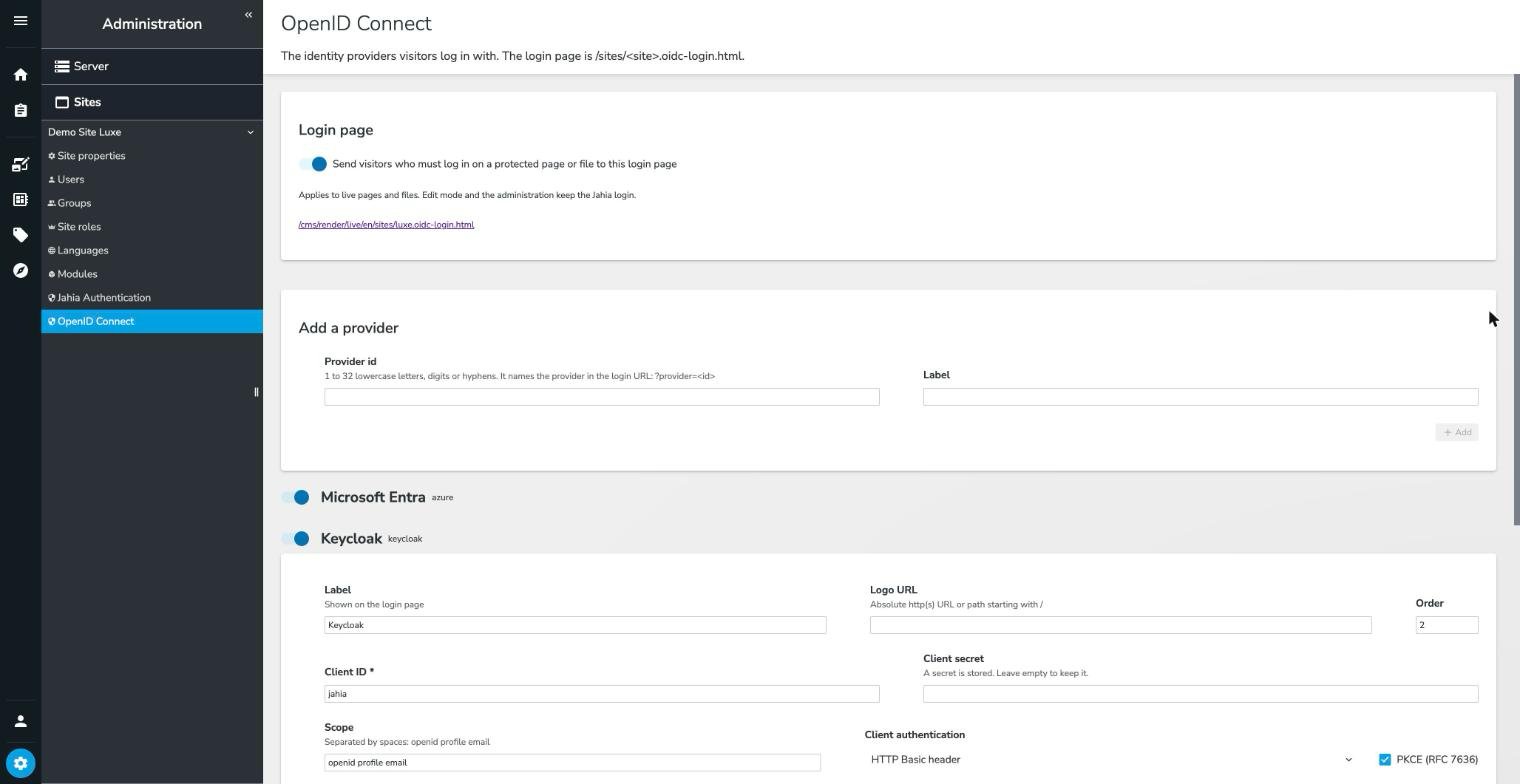
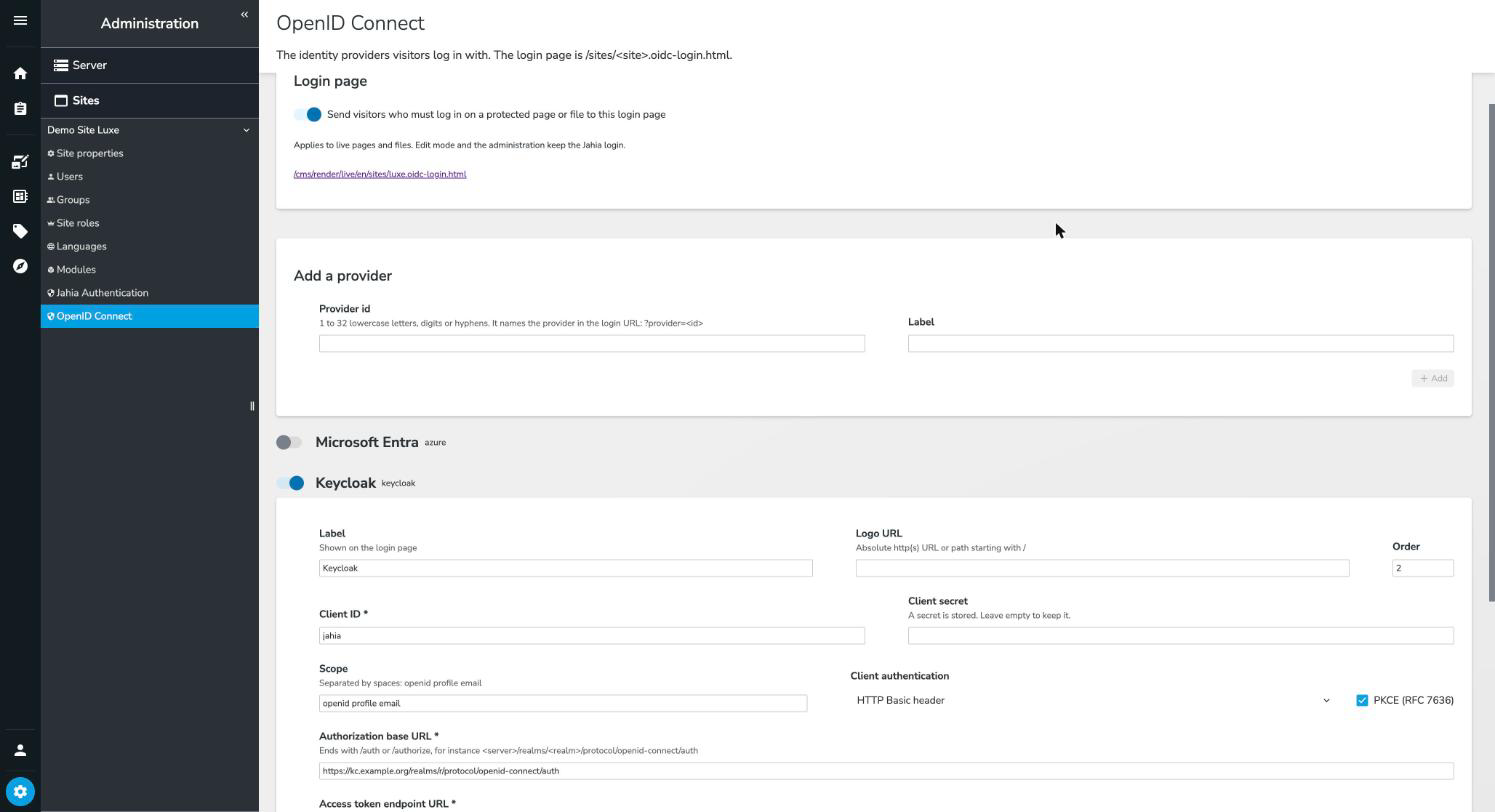
feat(admin): show the settings of a provider while it is on or incomplete

diff --git a/src/javascript/OidcProviders/OidcProvidersAdmin.jsx b/src/javascript/OidcProviders/OidcProvidersAdmin.jsx
@@ -1,4 +1,4 @@
-import React, {useState} from 'react';
+import React from 'react';
 import {useQuery} from '@apollo/client';
 import {useSelector} from 'react-redux';
 import {useTranslation} from 'react-i18next';
@@ -10,19 +10,23 @@ import {ProviderEnabledSwitch} from './ProviderEnabledSwitch';
 import {ProviderForm} from './ProviderForm';
 import styles from './OidcProviders.css';
 
+// The settings that turning a provider on requires, as the server checks them
+const isComplete = provider => [provider.clientId, provider.accessTokenEndpoint, provider.authorizationBaseUrl, provider.callbackUrl]
+    .every(value => Boolean(value?.trim()));
+
 /**
- * Site settings > OpenID Connect: add the providers of the site, configure each one, and delete them.
+ * Site settings > OpenID Connect: add the providers of the site, configure each one, and delete them. The settings
+ * of a provider show while it is on, and while it still lacks what turning it on requires.
  */
 export const OidcProvidersAdmin = () => {
     const {t} = useTranslation('jahia-oauth-oidc');
     const siteKey = useSelector(state => state.site);
     const language = useSelector(state => state.language);
     const {data, loading, error, refetch} = useQuery(GET_PROVIDERS, {variables: {siteKey}, fetchPolicy: 'network-only'});
-    const [expandedId, setExpandedId] = useState(null);
     const providers = data?.oidcProviders || [];
 
-    const onCreated = providerId => refetch().then(() => setExpandedId(providerId));
-    const onDeleted = () => refetch().then(() => setExpandedId(null));
+    const onCreated = () => refetch();
+    const onDeleted = () => refetch();
 
     return (
         <LayoutContent
@@ -44,24 +48,18 @@ export const OidcProvidersAdmin = () => {
                     {error && <Typography className={styles.error}>{error.message}</Typography>}
                     {data && providers.length === 0 && <Typography>{t('label.none')}</Typography>}
                     {providers.map(provider => {
-                        const isExpanded = expandedId === provider.id;
+                        const isShown = provider.enabled || !isComplete(provider);
                         return (
                             <div key={provider.id} data-test="oidc-provider-card" data-provider={provider.id}>
-                                {/* Moonstone's Collapsible takes a text label only: the header holds the switch too */}
                                 <div className={styles.providerHeaderRow}>
                                     <ProviderEnabledSwitch siteKey={siteKey} provider={provider} onChanged={refetch}/>
-                                    <button type="button"
-                                            className={styles.providerHeader}
-                                            aria-expanded={isExpanded}
-                                            aria-controls={`oidc-provider-${provider.id}`}
-                                            onClick={() => setExpandedId(isExpanded ? null : provider.id)}
-                                    >
+                                    <div className={styles.providerHeader}>
                                         <Typography variant="heading" weight="bold">{provider.label}</Typography>
                                         <Typography variant="caption">{provider.id}</Typography>
-                                    </button>
+                                    </div>
                                 </div>
-                                {/* Kept mounted while collapsed, so that unsaved changes survive */}
-                                <div id={`oidc-provider-${provider.id}`} hidden={!isExpanded}>
+                                {/* Kept mounted while hidden, so that unsaved changes survive */}
+                                <div id={`oidc-provider-${provider.id}`} hidden={!isShown}>
                                     <ProviderForm siteKey={siteKey}
                                                   language={language}
                                                   provider={provider}

diff --git a/tests/cypress/e2e/oidc-provider-administration.cy.ts b/tests/cypress/e2e/oidc-provider-administration.cy.ts
@@ -47,8 +47,8 @@ describe('OIDC provider administration', () => {
         cy.get('[data-test="oidc-add-provider"]').should('be.disabled');
         cy.get('#oidc-new-provider-id').clear();
 
-        // Open the first provider. The server refuses an invalid callback URL.
-        cy.get(card('first')).find('button').first().click();
+        // A provider that is off shows its settings until they are complete. The server refuses an invalid callback URL.
+        cy.get(card('first')).find('[data-test="oidc-provider-form"]').should('be.visible');
         cy.get(card('first')).within(() => {
             cy.get(field('first', 'clientId')).type('client');
             cy.get(field('first', 'clientSecret')).type('secret');
@@ -61,12 +61,14 @@ describe('OIDC provider administration', () => {
             cy.get(field('first', 'callbackUrl')).clear();
             cy.get(field('first', 'callbackUrl')).type(`${Cypress.config('baseUrl')}${sitePath(siteKey)}.oidc-callback.do`);
             cy.get('[data-test="oidc-save-provider"]').click();
-            cy.get('[data-test="oidc-provider-saved"]').should('be.visible');
         });
+        // Complete and off, the provider hides its settings; turned on, it shows them again.
+        cy.get(card('first')).find('[data-test="oidc-provider-form"]').should('not.be.visible');
 
         // A configured provider is turned on from its header; an incomplete one cannot be.
         cy.get(card('first')).find('[data-test="oidc-provider-enabled"]').click();
         cy.get(card('first')).find('[data-test="oidc-provider-enabled"] input').should('be.checked');
+        cy.get(card('first')).find('[data-test="oidc-provider-form"]').should('be.visible');
         cy.get(card('second')).find('[data-test="oidc-provider-enabled"]').click();
         cy.get(card('second')).find('[data-test="oidc-provider-enabled-error"]').should('contain', 'client ID');
 
@@ -75,12 +77,10 @@ describe('OIDC provider administration', () => {
         cy.get('[data-test="oidc-provider-card"]').should('have.length', 2);
         cy.get(card('first')).find('[data-test="oidc-provider-enabled"] input').should('be.checked');
         cy.get(card('second')).find('[data-test="oidc-provider-enabled"] input').should('not.be.checked');
-        cy.get(card('first')).find('button').first().click();
         cy.get(field('first', 'clientId')).should('have.value', 'client');
         cy.get(field('first', 'clientSecret')).should('have.value', '');
         cy.get(card('first')).should('contain', 'A secret is stored');
 
-        cy.get(card('second')).find('button').first().click();
         cy.get(card('second')).find('[data-test="oidc-delete-provider"]').click();
         cy.get(card('second')).should('not.exist');
         cy.reload();

diff --git a/src/javascript/OidcProviders/OidcProviders.css b/src/javascript/OidcProviders/OidcProviders.css
@@ -89,9 +89,4 @@
     align-items: center;
     gap: var(--spacing-small, 8px);
     padding: var(--spacing-small, 8px) 0;
-    border: 0;
-    background: none;
-    color: inherit;
-    text-align: left;
-    cursor: pointer;
 }

diff --git a/README.md b/README.md
@@ -8,7 +8,7 @@ Open **Administration > Sites > OpenID Connect** (`/jahia/administration/<siteKe
 
 * **Add a provider** takes an id and a label. The id is 1 to 32 lowercase letters, digits or inner hyphens, and it names the provider in the login URL. The provider is created disabled.
 * The switch in front of the name of a provider turns it on or off at once, and leaves its other settings as they are. A provider whose settings are incomplete cannot be turned on.
-* A click on the name of a provider opens its settings, with its **Save**, **Mappers** and **Delete** buttons.
+* A provider shows its settings, with its **Save**, **Mappers** and **Delete** buttons, while it is on, and while it still lacks its client ID or one of its required URLs. A provider that is off and complete shows its name only.
 * **Label**, **Logo URL** and **Order** set how the login page shows the provider. The logo URL is an absolute http(s) URL or a path that starts with `/`.
 
 ![OpenID Connect administration](/docs/oidc-providers-admin.png "OpenID Connect administration")
